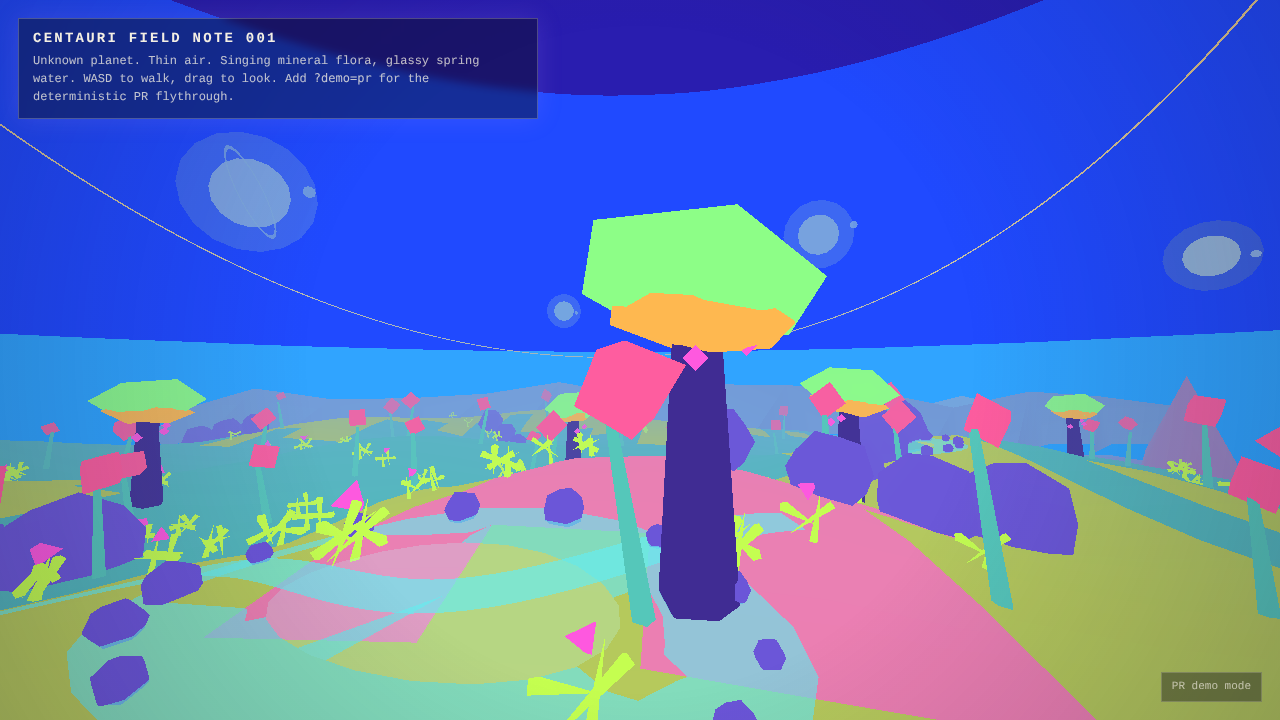
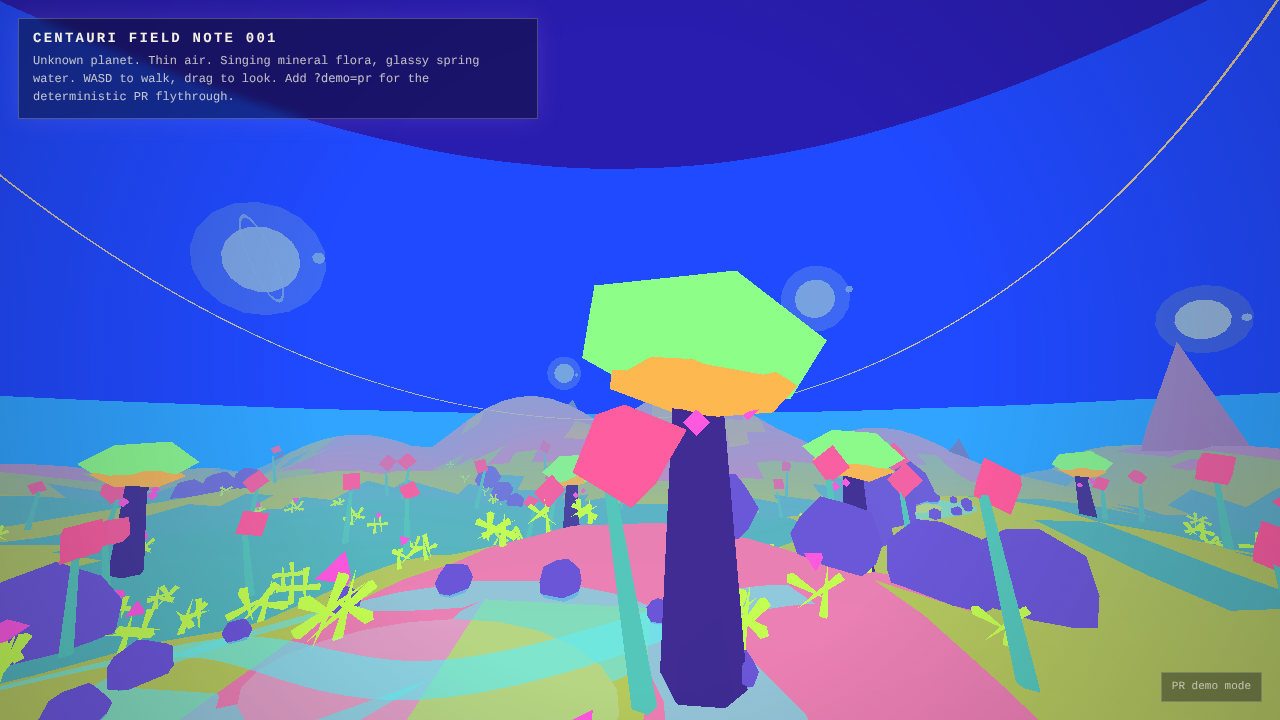
Make mountains walkable terrain

diff --git a/src/terrain.ts b/src/terrain.ts
@@ -2,17 +2,37 @@ import * as THREE from "three";
 
 export function heightAt(x: number, z: number): number {
   const d = Math.sqrt(x * x + z * z);
-  const island = Math.max(0, 1 - Math.pow(d / 88, 2.35));
+  const island = Math.max(0, 1 - Math.pow(d / 106, 2.28));
   const ridges = Math.sin(x * 0.18) * Math.cos(z * 0.16) * 1.45;
   const alienPulse = Math.sin((x + z) * 0.07) * 0.85 + Math.sin(Math.hypot(x, z) * 0.28) * 0.7;
-  const northShoulder = Math.max(0, 1 - Math.abs(z + 55) / 22) * (1 - Math.min(Math.abs(x) / 96, 1)) * 2.8;
+  const northShoulder = Math.max(0, 1 - Math.abs(z + 55) / 24) * (1 - Math.min(Math.abs(x) / 106, 1)) * 3.1;
   const westShelf = Math.max(0, 1 - Math.abs(x + 64) / 26) * (1 - Math.min(Math.abs(z) / 96, 1)) * 1.8;
-  return island * (ridges + alienPulse + 8.5) - 3.2 + northShoulder + westShelf;
+  return island * (ridges + alienPulse + 8.5) - 3.2 + northShoulder + westShelf + mountainHeightAt(x, z);
+}
+
+function mountainHeightAt(x: number, z: number): number {
+  const northBelt = Math.max(0, 1 - Math.abs(z + 72) / 28);
+  const northTaper = 1 - Math.min(Math.abs(x) / 116, 1);
+  const northCrests = Math.pow(northBelt, 1.8) * Math.pow(Math.max(0, northTaper), 0.75);
+  const serration = 0.64 + Math.abs(Math.sin(x * 0.105 + Math.sin(z * 0.045) * 1.8)) * 0.56;
+
+  const sideMasses =
+    mound(x, z, -78, -42, 18, 24, 7.8) +
+    mound(x, z, 82, -54, 20, 28, 9.4) +
+    mound(x, z, 74, 34, 18, 22, 6.5);
+
+  return northCrests * serration * 14.5 + sideMasses;
+}
+
+function mound(x: number, z: number, centerX: number, centerZ: number, radiusX: number, radiusZ: number, height: number): number {
+  const dx = (x - centerX) / radiusX;
+  const dz = (z - centerZ) / radiusZ;
+  return Math.max(0, 1 - dx * dx - dz * dz) * height;
 }
 
 export function makeTerrain(): THREE.Mesh {
-  const size = 176;
-  const segments = 64;
+  const size = 220;
+  const segments = 80;
   const cellSize = size / segments;
   const halfSize = size / 2;
   const geometry = new THREE.BufferGeometry();
@@ -70,58 +90,31 @@ export function makeTerrain(): THREE.Mesh {
 
 export function makeHorizonLandforms(): THREE.Group {
   const group = new THREE.Group();
-  const ridgeMaterials = [
-    new THREE.MeshBasicMaterial({ color: 0x4e2d88, side: THREE.DoubleSide }),
-    new THREE.MeshBasicMaterial({ color: 0x2f7896, side: THREE.DoubleSide }),
-    new THREE.MeshBasicMaterial({ color: 0xd25598, side: THREE.DoubleSide }),
-  ];
+  const crestMaterial = new THREE.MeshBasicMaterial({ color: 0x4e2d88, side: THREE.DoubleSide });
+  const butteMaterial = new THREE.MeshBasicMaterial({ color: 0xd25598, side: THREE.DoubleSide });
 
-  addRidgeStrip(group, ridgeMaterials[0], -92, -106, 0.95, 0);
-  addRidgeStrip(group, ridgeMaterials[1], -112, -128, 0.68, 0.9);
-  addSideButtes(group, ridgeMaterials[2]);
-
+  addCrestStones(group, crestMaterial);
+  addSideButtes(group, butteMaterial);
   return group;
 }
 
-function addRidgeStrip(
-  group: THREE.Group,
-  material: THREE.Material,
-  z: number,
-  backZ: number,
-  heightScale: number,
-  phase: number
-): void {
-  const geometry = new THREE.BufferGeometry();
-  const positions: number[] = [];
-  const indices: number[] = [];
-  const ridgeCount = 13;
-  const left = -105;
-  const step = 210 / ridgeCount;
+function addCrestStones(group: THREE.Group, material: THREE.Material): void {
+  const placements = [
+    { x: -58, z: -74, height: 2.4, radius: 1.8, lean: -0.35 },
+    { x: -34, z: -80, height: 3.3, radius: 2.2, lean: 0.22 },
+    { x: -8, z: -73, height: 2.8, radius: 1.9, lean: -0.16 },
+    { x: 21, z: -78, height: 3.7, radius: 2.4, lean: 0.31 },
+    { x: 52, z: -70, height: 2.6, radius: 1.8, lean: -0.24 },
+  ];
 
-  for (let i = 0; i <= ridgeCount; i += 1) {
-    const x = left + i * step;
-    const baseY = heightAt(x * 0.58, -76) - 0.35;
-    const peakY =
-      baseY +
-      (8 + Math.sin(i * 1.7 + phase) * 3.2 + ((i * 5) % 4) * 1.5) * heightScale;
-    const forwardZ = z + Math.sin(i * 0.8 + phase) * 4;
-    const rearZ = backZ + Math.cos(i * 0.7 + phase) * 6;
-    positions.push(x, baseY, forwardZ, x + step * 0.48, peakY, (forwardZ + rearZ) * 0.5, x + step, baseY, rearZ);
-  }
-
-  for (let i = 0; i < ridgeCount; i += 1) {
-    const a = i * 3;
-    const b = (i + 1) * 3;
-    indices.push(a, a + 1, a + 2, a + 2, a + 1, b + 1, a + 2, b + 1, b + 2);
-  }
-
-  geometry.setAttribute("position", new THREE.Float32BufferAttribute(positions, 3));
-  geometry.setIndex(indices);
-  geometry.computeVertexNormals();
-
-  const ridge = new THREE.Mesh(geometry, material);
-  ridge.renderOrder = -1;
-  group.add(ridge);
+  placements.forEach(({ x, z, height, radius, lean }) => {
+    const crest = new THREE.Mesh(new THREE.ConeGeometry(radius, height, 5), material);
+    crest.position.set(x, heightAt(x, z) + height * 0.5 - 0.08, z);
+    crest.rotation.set(lean * 0.25, x * 0.01, lean);
+    crest.scale.x = 1.2;
+    crest.scale.z = 0.7;
+    group.add(crest);
+  });
 }
 
 function addSideButtes(group: THREE.Group, material: THREE.Material): void {

diff --git a/tests/collision.spec.ts b/tests/collision.spec.ts
@@ -16,12 +16,19 @@ test("blocks first-person movement at solid world objects", async ({ page }) => 
     debug.setPlayer(tree.x, startZ);
     const blocked = debug.attemptMove(0, -1.5);
     const waterPassable = !debug.isBlockedAt(5.5, 7.5);
+    const fieldHeight = debug.terrainHeightAt(0, -28);
+    const mountainHeight = debug.terrainHeightAt(0, -74);
+    debug.setPlayer(0, -74);
+    const mountainPlayer = debug.getPlayer();
 
     return {
       colliderCount: debug.obstacles.length,
       treeBlocked: Math.abs(blocked.z - startZ) < 0.001,
       rockBlocked: debug.isBlockedAt(rock.x, rock.z),
       waterPassable,
+      mountainIsTerrain: mountainHeight > fieldHeight + 7,
+      mountainWalkable: !debug.isBlockedAt(0, -74),
+      playerStandsOnMountain: Math.abs(mountainPlayer.y - (mountainHeight + 2.2)) < 0.001,
     };
   });
 
@@ -29,4 +36,7 @@ test("blocks first-person movement at solid world objects", async ({ page }) => 
   expect(result.treeBlocked).toBe(true);
   expect(result.rockBlocked).toBe(true);
   expect(result.waterPassable).toBe(true);
+  expect(result.mountainIsTerrain).toBe(true);
+  expect(result.mountainWalkable).toBe(true);
+  expect(result.playerStandsOnMountain).toBe(true);
 });

diff --git a/src/main.ts b/src/main.ts
@@ -10,10 +10,11 @@ declare global {
   interface Window {
     __centauriDebug?: {
       obstacles: CollisionObstacle[];
-      getPlayer: () => { x: number; z: number };
+      getPlayer: () => { x: number; y: number; z: number };
       setPlayer: (x: number, z: number) => void;
       attemptMove: (x: number, z: number) => { x: number; z: number };
       isBlockedAt: (x: number, z: number) => boolean;
+      terrainHeightAt: (x: number, z: number) => number;
     };
   }
 }
@@ -68,7 +69,7 @@ const prDemo = createPrDemoController(camera, heightAt, collisionWorld.resolveMo
 if (enableCollisionDebug) {
   window.__centauriDebug = {
     obstacles: collisionWorld.obstacles.map((obstacle) => ({ ...obstacle })),
-    getPlayer: () => ({ x: player.position.x, z: player.position.z }),
+    getPlayer: () => ({ x: player.position.x, y: player.position.y, z: player.position.z }),
     setPlayer: (x: number, z: number) => {
       player.position.set(x, heightAt(x, z) + 2.2, z);
       player.velocity.set(0, 0, 0);
@@ -79,6 +80,7 @@ if (enableCollisionDebug) {
       return { x: player.position.x, z: player.position.z };
     },
     isBlockedAt: collisionWorld.isBlockedAt,
+    terrainHeightAt: heightAt,
   };
 }
 

diff --git a/GAME_DIARY.md b/GAME_DIARY.md
@@ -27,3 +27,5 @@ Restored the ROB-248 sky direction inside the flatter art pass with a simple day
 Changed the terrain color layout from interpolated vertex gradients to hard-edged flat color cells so the floor reads more like pixelly Proteus-style color borders.
 
 Expanded the planet beyond the local field with wider terrain, distant flat-colour ridge silhouettes, and odd side buttes, then split the growing scene code into small terrain, sky, nature, collision, and PR demo modules.
+
+Reworked the mountain pass after review feedback so the high ridges are part of the walkable terrain heightfield instead of detached horizon silhouettes.